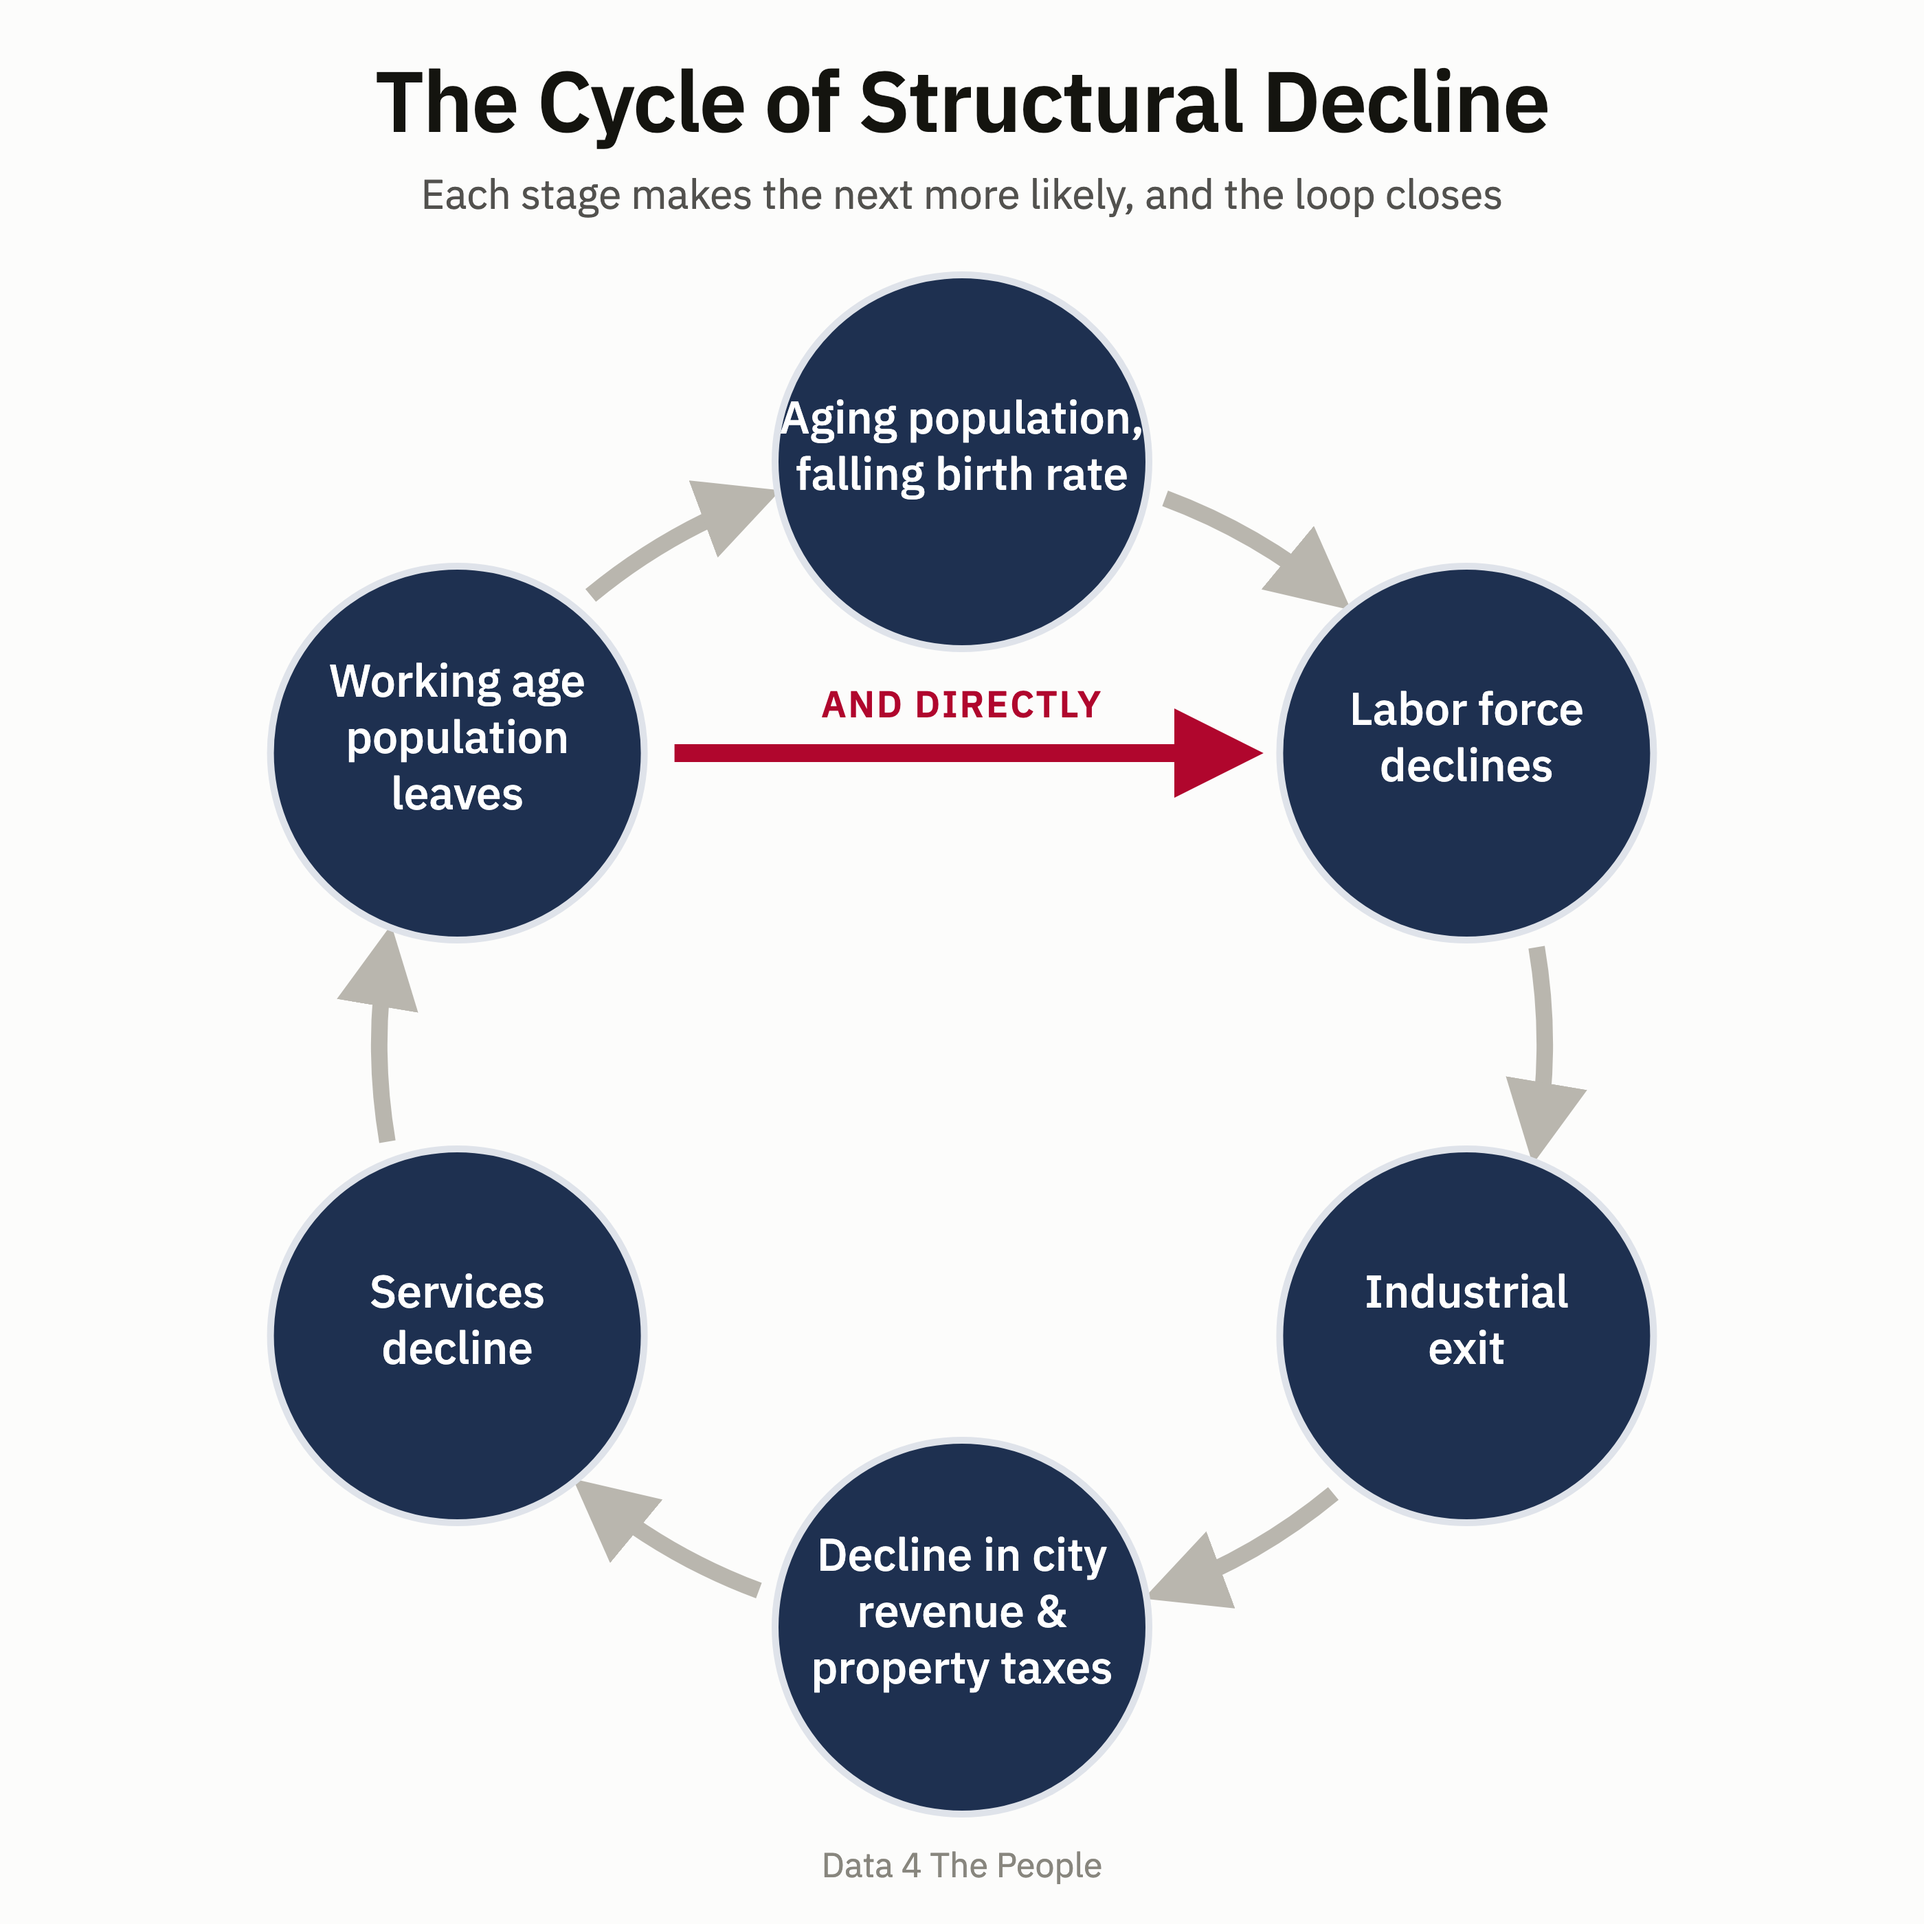
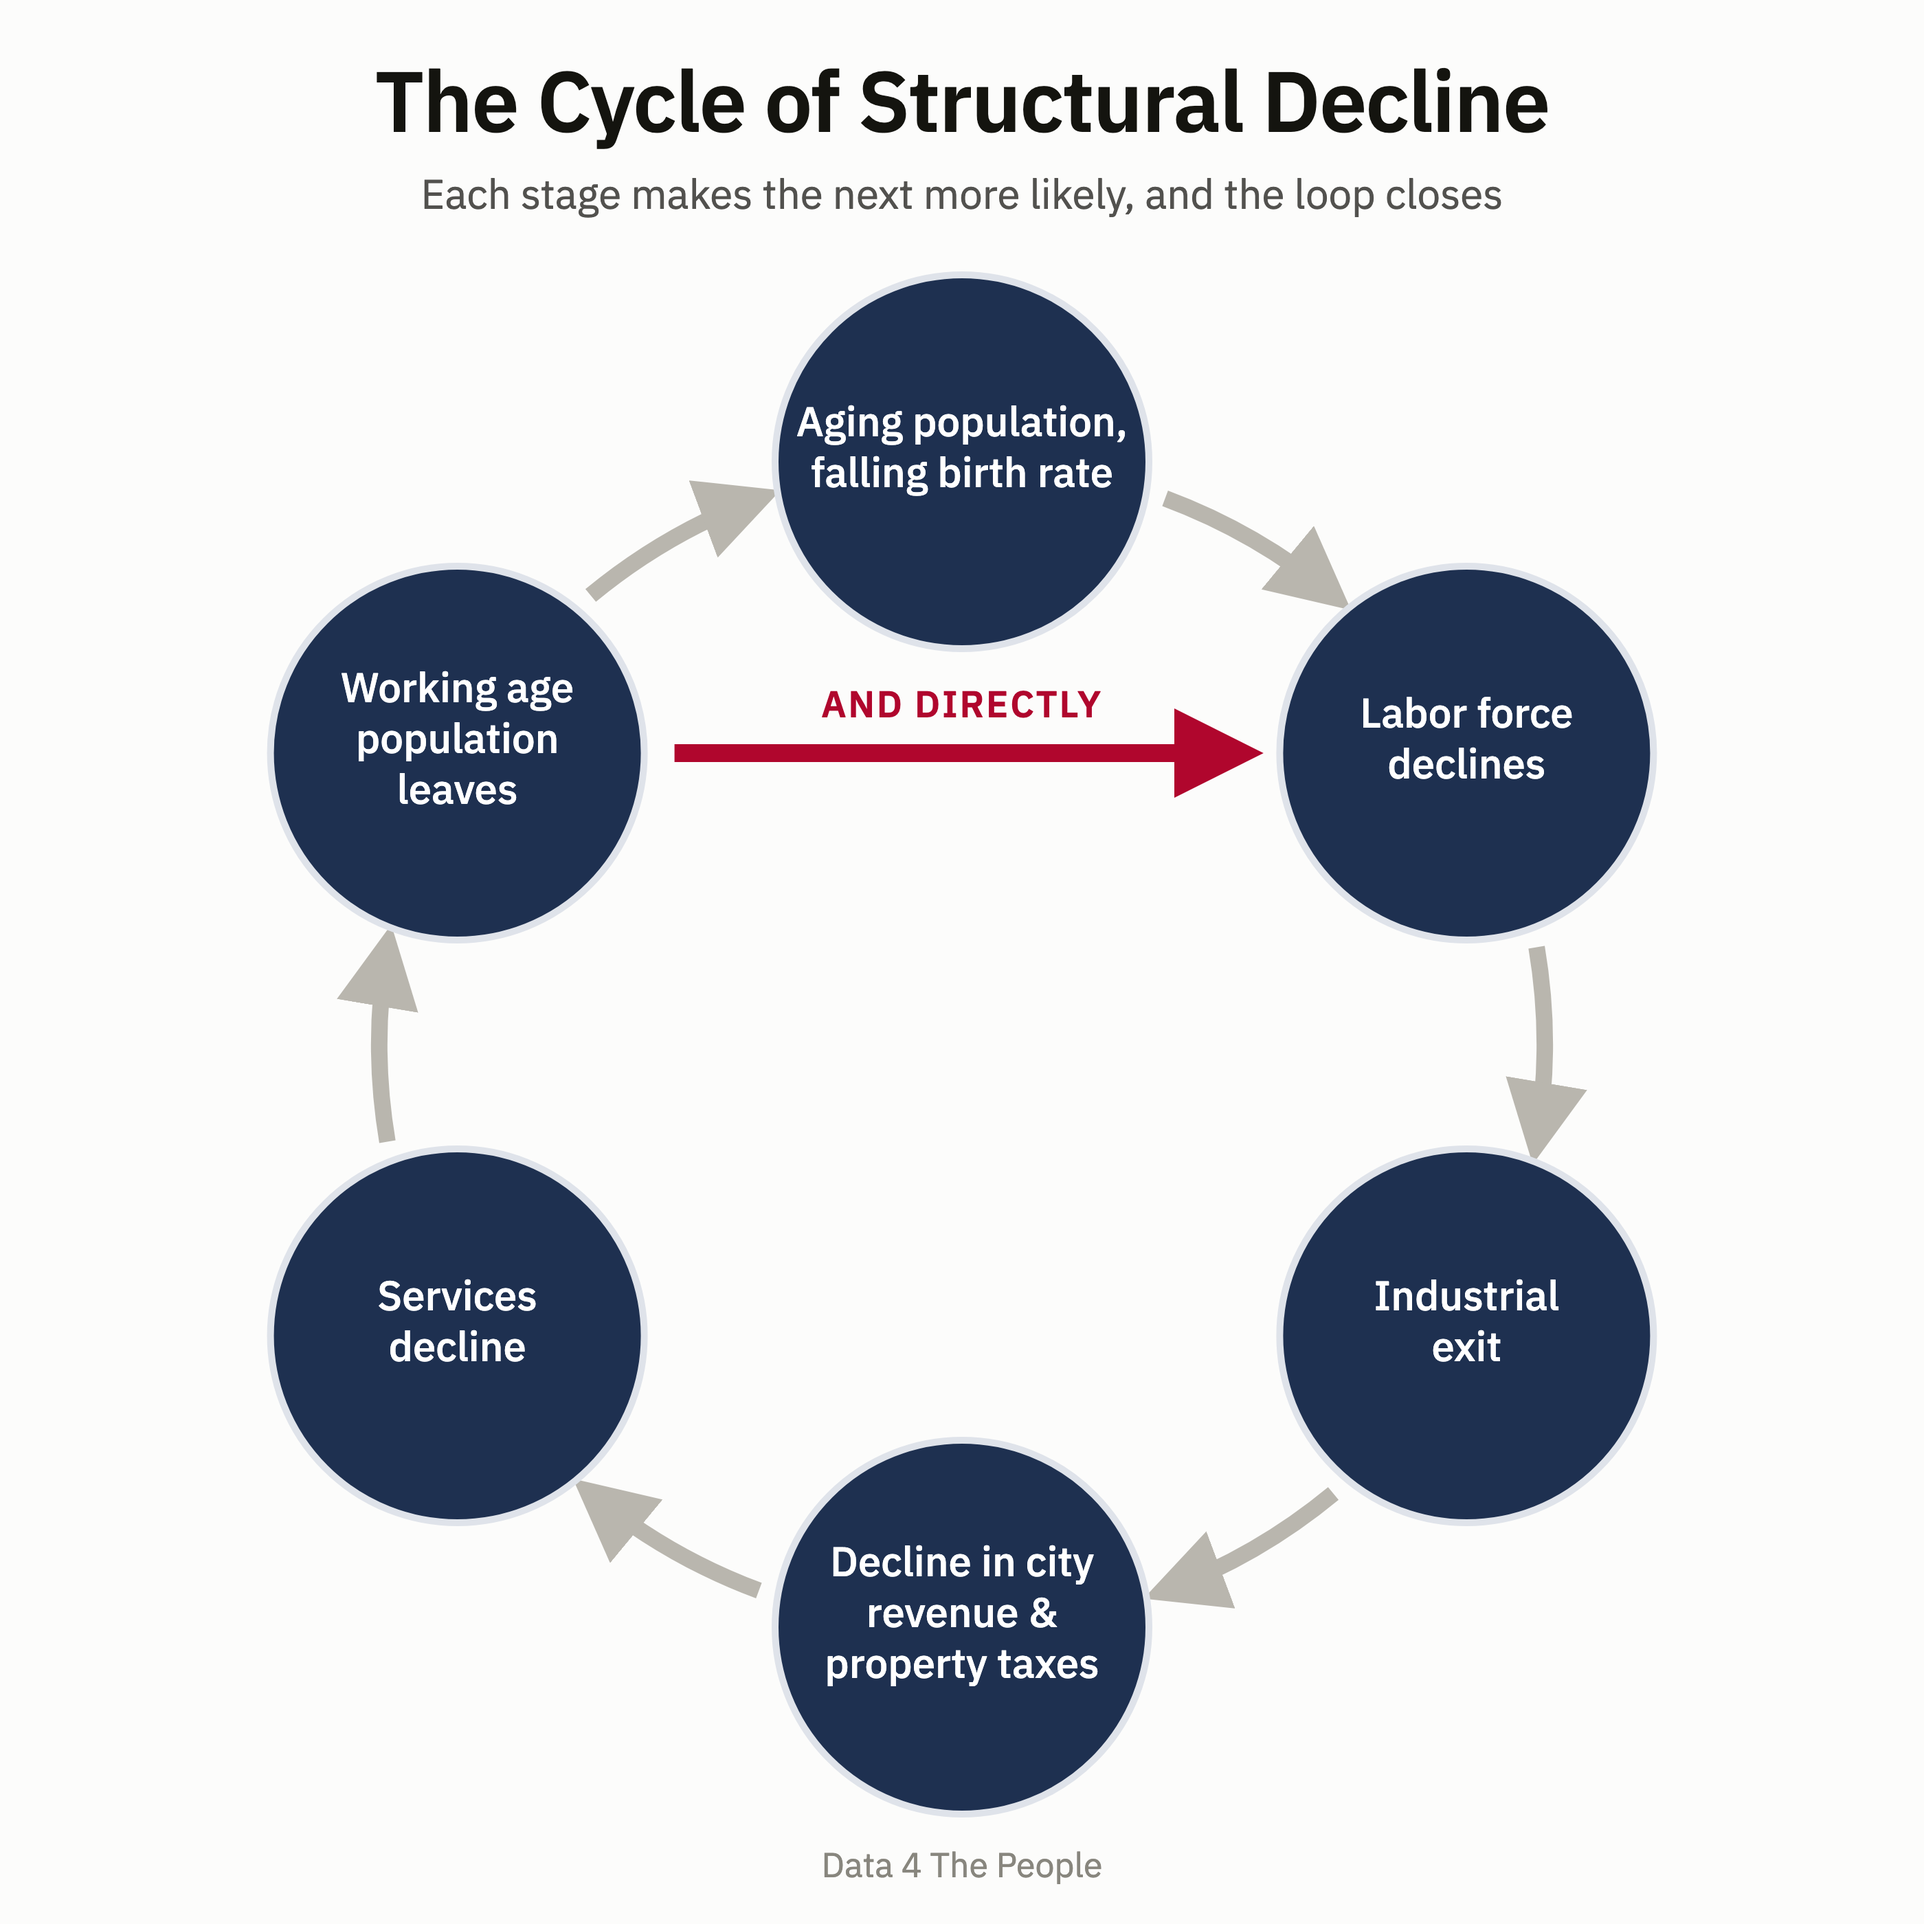
Fit the cycle labels inside their circles
"Aging population," was running past the edge of the top node. Rather than
eyeballing a smaller size, measured every label in the browser at the real
font and compared it with the chord available on its own row, since rows
away from the centre have less room. 30px is the largest uniform size that
clears every circle: at 31px that line needs 249px against 243px available.

Also escapes the label text. "revenue &" went into the markup raw, which the
browser tolerates but left the standalone .svg invalid XML. It now parses.

Claude-Session: https://claude.ai/code/session_012fgEpApq3C51c46wW8JH84

diff --git a/viz/build_cycle.py b/viz/build_cycle.py
@@ -9,6 +9,7 @@ arrows always meet the node edges.
 """
 from __future__ import annotations
 
+import html
 import math
 import subprocess
 from pathlib import Path
@@ -65,10 +66,13 @@ def arc(i: int, j: int, gap: float = 15.0) -> str:
 def node(i: int) -> str:
     x, y = polar(i)
     lines = STAGES[i]
-    size = 33
+    # 30px is the largest uniform size at which every line clears the circle:
+    # "Aging population," is the constraint, needing 249px at 31px of type
+    # against the 243px of chord available on its row
+    size = 30
     start = y - (len(lines) - 1) * size * 0.62
     text = "".join(
-        f'<tspan x="{x:.1f}" y="{start + n * size * 1.24:.1f}">{ln}</tspan>'
+        f'<tspan x="{x:.1f}" y="{start + n * size * 1.24:.1f}">{html.escape(ln)}</tspan>'
         for n, ln in enumerate(lines))
     return (f'<circle cx="{x:.1f}" cy="{y:.1f}" r="{NODE}" fill="{NAVY}" '
             f'stroke="{NAVY_EDGE}" stroke-width="5"/>'
